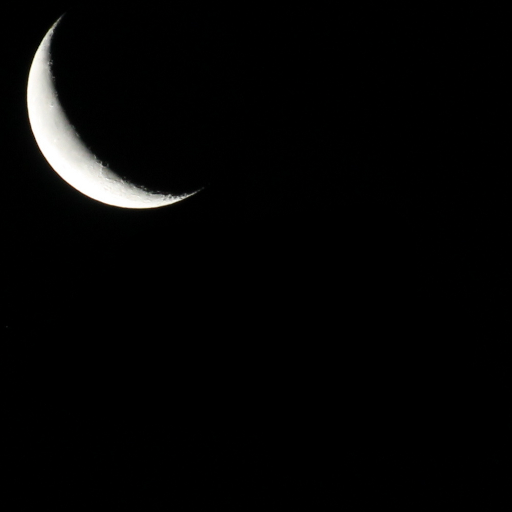
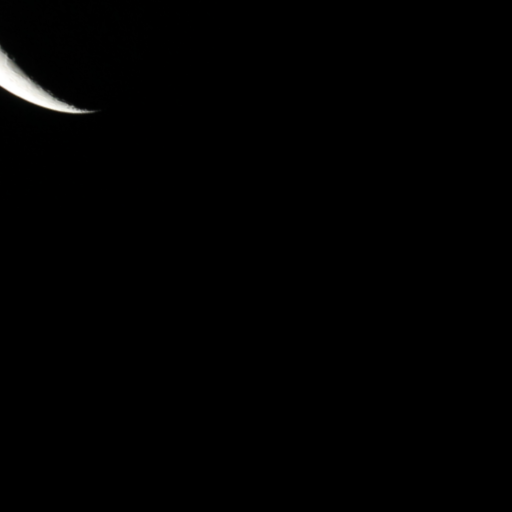
set_flicker_scale が正しく動作するように修正。 月のスカイボックスを修正。

Changed region(s): [[0.0, 0.0312, 0.375, 0.4375]]

diff --git a/source/Player.cpp b/source/Player.cpp
@@ -157,7 +157,7 @@ void Player::update()
 
 	if ( is_flickering() )
 	{
-		update_velocity_by_flicker( Vector3( get_location().x(), action_base_position_.y(), get_location().z() ) );
+		update_velocity_by_flicker( Vector3( get_location().x(), action_base_position_.y(), get_location().z() ), get_flicker_scale() );
 	}
 
 	if ( ! can_peer_down() )

diff --git a/source/Robot.cpp b/source/Robot.cpp
@@ -144,7 +144,7 @@ void Robot::update()
 	}
 	else if ( mode_ == MODE_FLOAT )
 	{
-		update_velocity_by_flicker( get_start_location() );
+		update_velocity_by_flicker( get_start_location(), get_flicker_scale() );
 
 		chase_direction_to( player_->get_location(), 0.5f );
 
